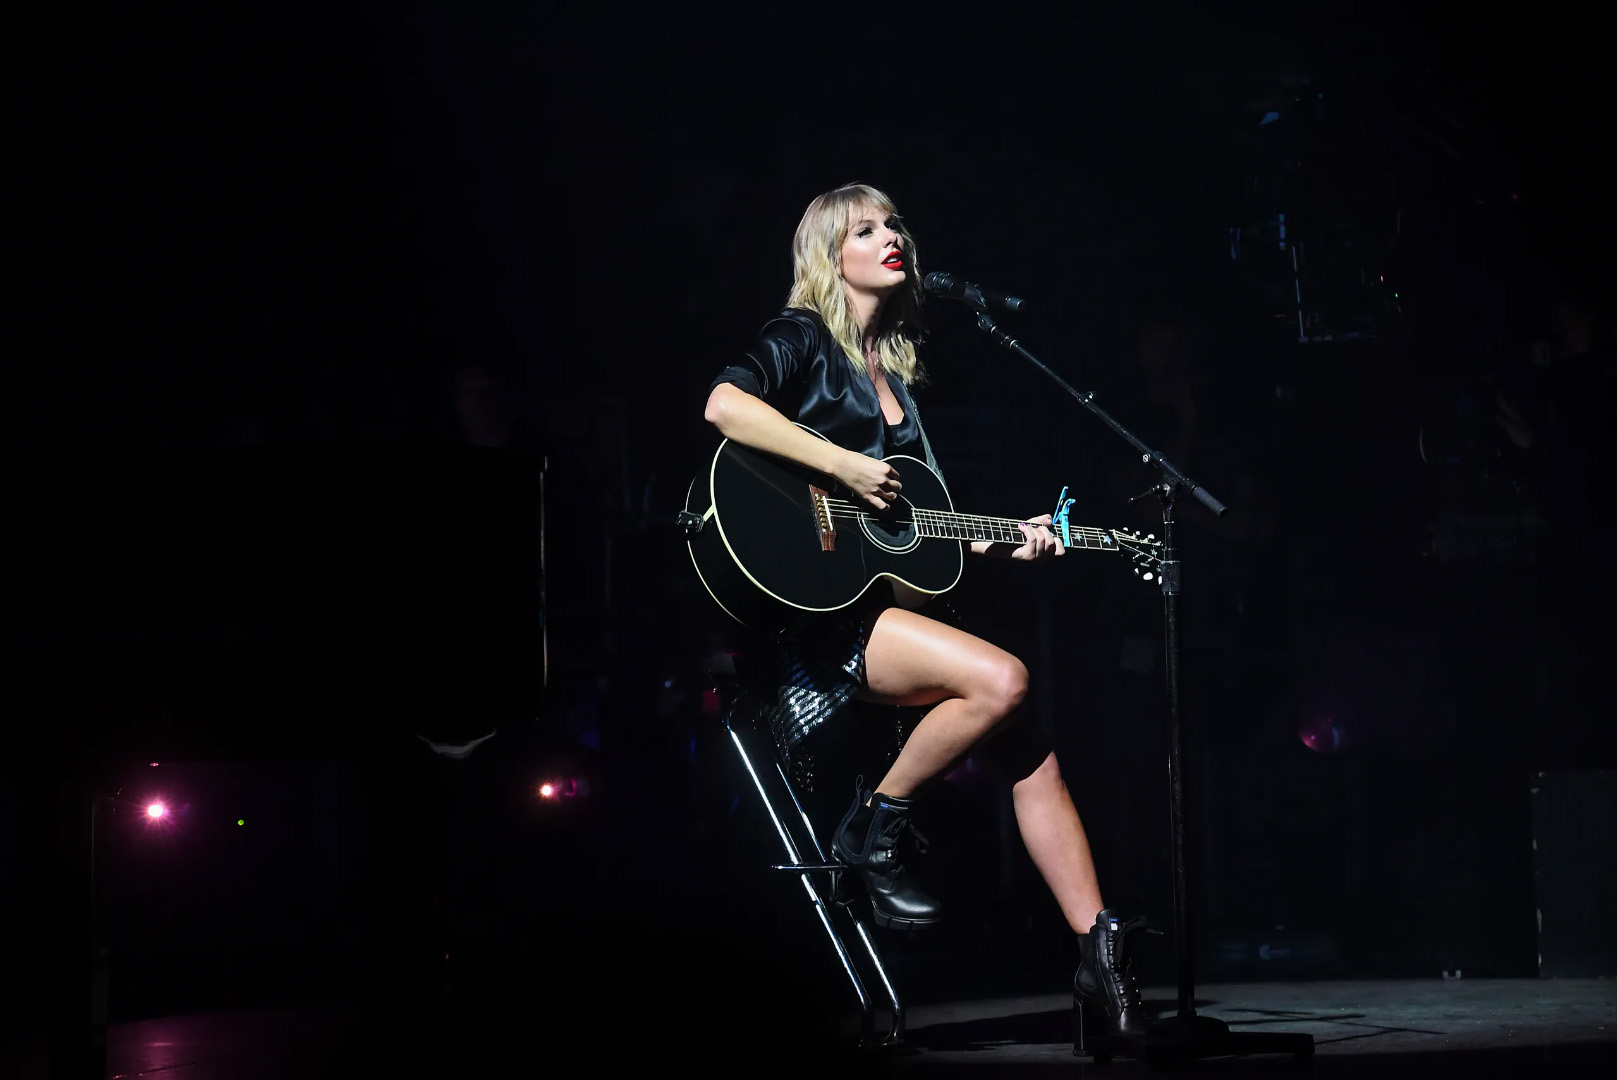
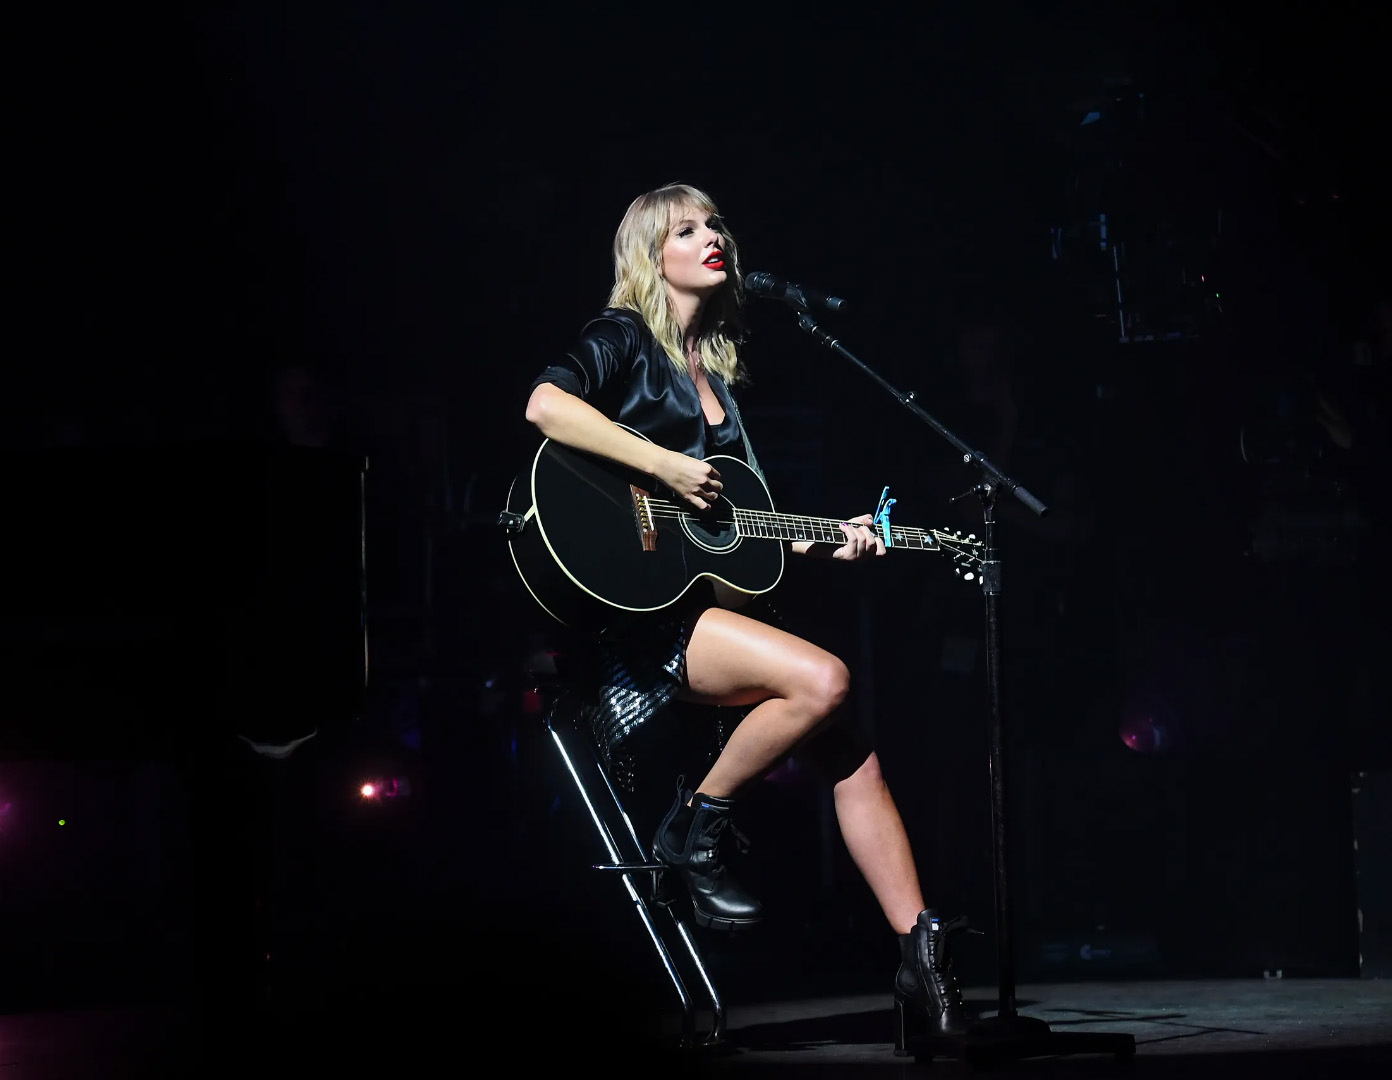
pictures

diff --git a/projekt1/western.html b/projekt1/western.html
@@ -39,7 +39,7 @@
             <li>Lauter, gerade beim Strummen</li>
             <li>Brillanter und hellerer Klang</li>
         </ul>
-        Westerngitarren werden, wie der Name schon sagt, bei Country-, Folk-, Rock-,  und Westernsongs benutzt,
+        Westerngitarren werden, wie der Name schon sagt, bei Country-, Folk-, Rock-, und Westernsongs benutzt,
         seit vielen Jahren aber auch in der Popmusik. Der britische Sänger und Songwriter Ed Sheeran hat
         meiner Meinung nach die Westerngitarre im Popbereich bedeutend nach vorne gebracht, auch weil er
         bei seinen Aufnahmen und bei seinen Auftritten eine verwendet.
@@ -47,6 +47,15 @@
         Ebenfalls hat die Popsängerin Taylor Swift
         die Westerngitarre pop-tauglich gemacht. Ursprünglich kam die erfolgreiche Sängerin und Songwriterin aus
         der Countrymusik, daher ihre Verbundenheit zu Westerngitarren.
+
+        <p></p>
+        <a href="https://de.wikipedia.org/wiki/Ed_Sheeran"><img src="bilder/edsheeran1.jpg"
+            alt="Taylor Swift Gitarre" height="250px">
+        </a>
+
+        <a href="https://de.wikipedia.org/wiki/Taylor_Swift"><img src="bilder/taylorswift1.jpg"
+                alt="Taylor Swift Gitarre" height="250px">
+        </a>
 
     </div>
 
